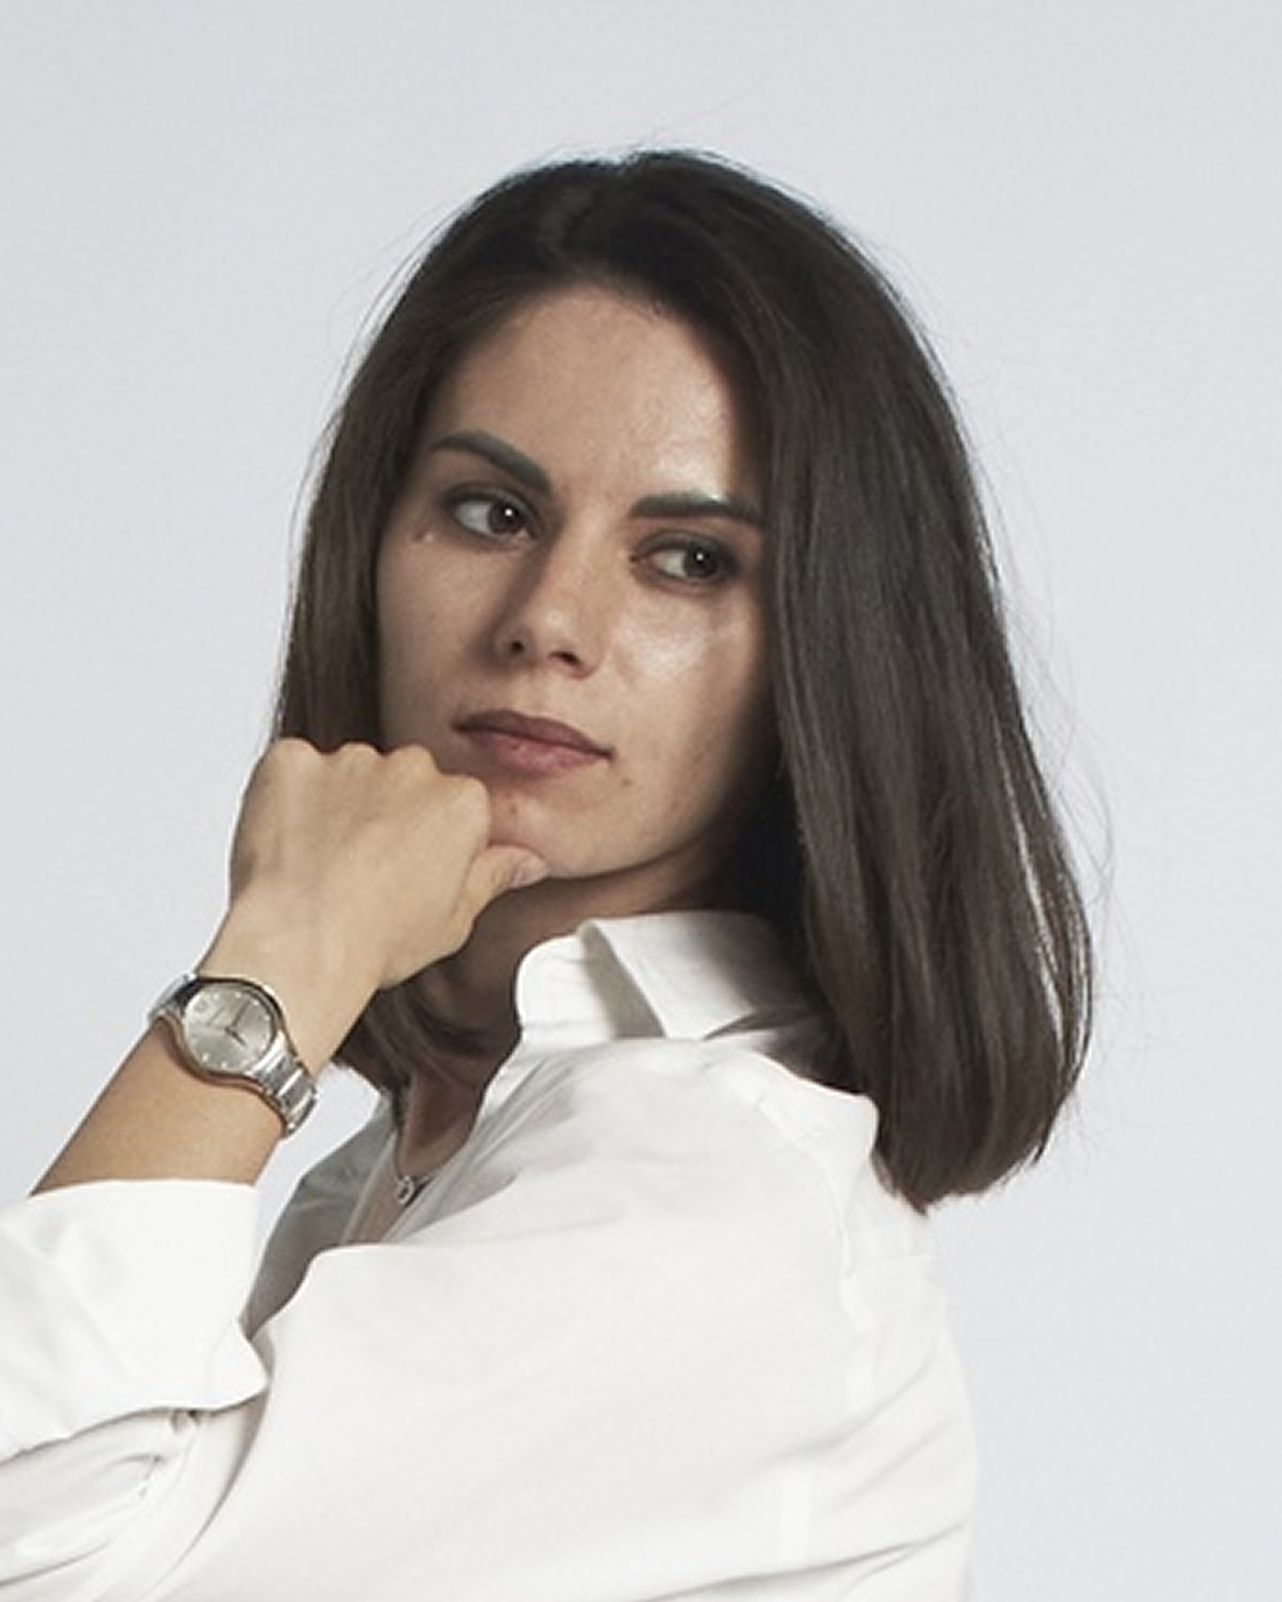
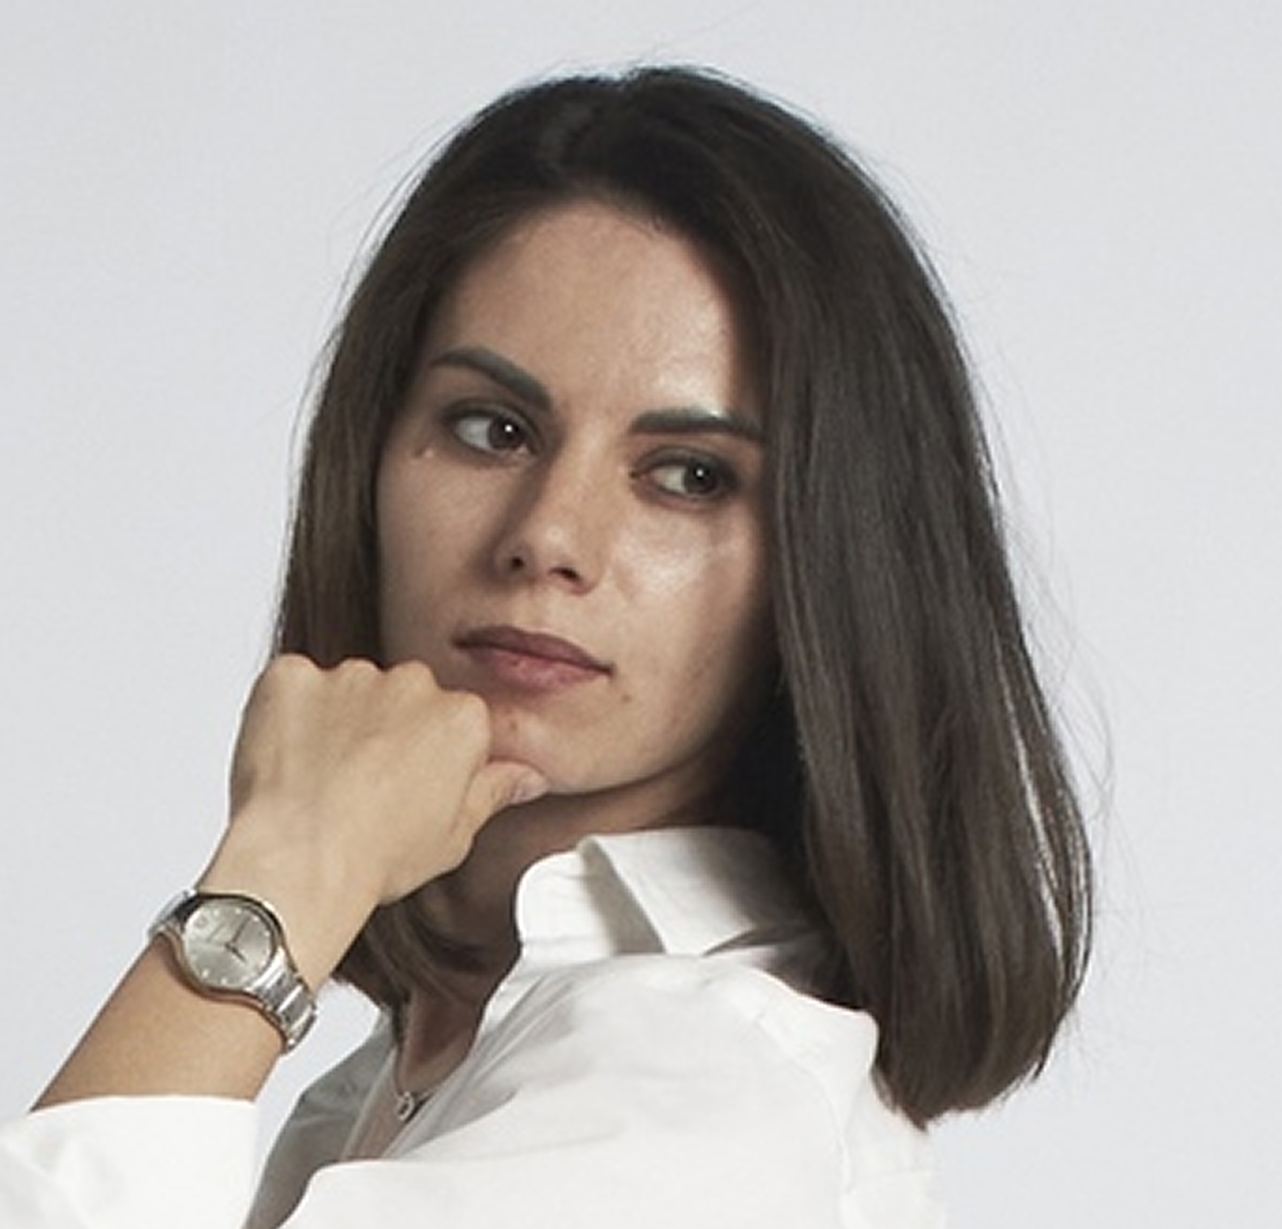
Update by comments

diff --git a/src/components/PageTitle.tsx b/src/components/PageTitle.tsx
@@ -5,9 +5,9 @@ type PageTitleProps = {
 export function PageTitle({ className = "" }: PageTitleProps) {
   return (
     <div className={`text-center ${className}`}>
-      <h1 className="mx-auto max-w-[620px] font-travelsNext text-[27px] font-bold uppercase leading-[0.95] text-ink sm:text-[34px] md:text-[40px]">
-        <span className="block whitespace-nowrap">Экспресс-диагностика</span>
-        <span className="block">пути покупателя</span>
+      <h1 className="mx-auto max-w-[620px] text-center font-travelsNext text-[27px] font-bold uppercase leading-[0.95] text-ink sm:text-[34px] md:text-[40px]">
+        <span className="block whitespace-nowrap text-center">Экспресс-диагностика</span>
+        <span className="block text-center">пути покупателя</span>
       </h1>
     </div>
   );

diff --git a/src/screens/IntroScreen.tsx b/src/screens/IntroScreen.tsx
@@ -28,7 +28,7 @@ export function IntroScreen({ onStart }: IntroScreenProps) {
           </p>
         </div>
 
-        <Button className="mt-4 w-full max-w-[640px]" type="button" onClick={onStart}>
+        <Button className="mt-10 w-full max-w-[640px] md:mt-12" type="button" onClick={onStart}>
           Пройдите, чтобы узнать свой результат
         </Button>
       </section>

diff --git a/src/screens/ContactScreen.tsx b/src/screens/ContactScreen.tsx
@@ -80,7 +80,7 @@ export function ContactScreen({
               target="_blank"
               rel="noreferrer"
             >
-              согласия на обработку персональных данных
+              согласие на обработку персональных данных
             </a>
           </label>
         </section>
